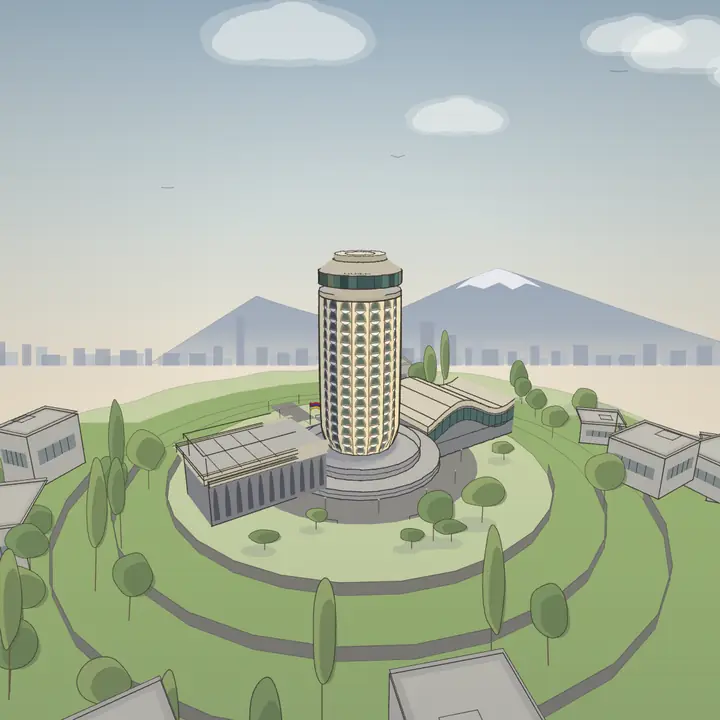
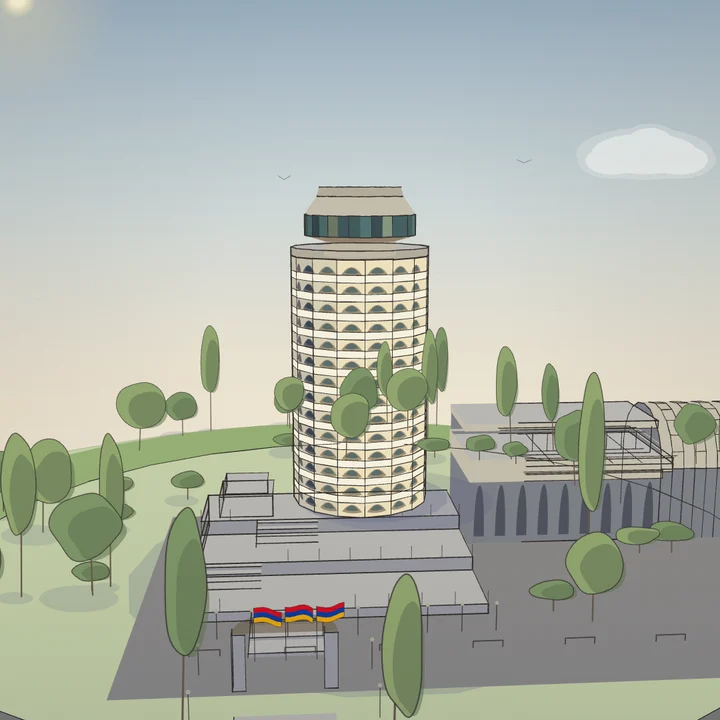
3D: ширина комплекса под 3–4 диаметра + пересъёмка кадров
Часть 3 задания на финальный вид 3D-модели — последний проход.

- Подиум подожат с 4.8 до ровно 4.0 диаметра ствола (PODX1: 3.90→2.30,
  простые объёмы на кровле сдвинуты в новые границы) — было заметно
  шире, чем просило задание.
- Пересняты кадры для сайта прямо из обновлённой сцены (тот же приём,
  что в прошлых раундах: композит #paper+#scene через offscreen canvas,
  toDataURL, PNG → PIL → нужные форматы/размеры):
  - assets/hero-sketch-{1080,720}.{jpg,webp} — общий план для слайдера
    «было/стало» на странице Кукурузника (ракурс близок к фото
    «Вид с холма»: башня, уступы, портал, крыло с арками, край свода).
  - kukuruznik/card.webp — кадр покрупнее на саму башню, для карточки
    в альбоме хаба и для превью 3D-кнопки.
  Проверено: файлы правильных размеров/форматов, на самих страницах
  подгружаются без ошибок (naturalWidth/Height и complete совпадают).

Проверено визуально почти со всех сторон поворотом камеры: пришлось
попутно найти и починить порядок файлов crыла/свода (см. предыдущий
коммит) — без этого свод строился в NaN-координатах и был невидим ни
с одного угла, хотя в модели он «существовал».

diff --git a/kukuruznik/js/model.js b/kukuruznik/js/model.js
@@ -65,7 +65,9 @@
        ниже друг друга. PODX0/PODX1 — общая для всех трёх ширина,
        поэтому уступ виден только со стороны фасада (−Z), а по бокам
        и сзади ярусы идут вровень друг над другом. */
-    var PODX0 = -1.35, PODX1 = 3.90;
+    /* Ширина всего комплекса (от торца свода до края подиума) —
+       3-4 диаметра ствола, как в задании. Было 4.8 при PODX1=3.90. */
+    var PODX0 = -1.35, PODX1 = 2.30;
     var TIERS3 = [
       { z0: -3.10, z1: 0.15, y0: 0.00, y1: 0.12 },
       { z0: -2.05, z1: 0.15, y0: 0.12, y1: 0.30 },
@@ -361,8 +363,8 @@
        там стоит пара служебных построек, а не голая плита. Обычные
        коробки с плоской крышей, без окон и лоджий. */
     var roofBoxes = [
-      { x0: 2.35, x1: 3.55, z0: -0.85, z1: -0.10, h: 0.30 },
-      { x0: 2.55, x1: 3.35, z0: 0.20,  z1: 0.60,  h: 0.20 }
+      { x0: 1.30, x1: 2.05, z0: -0.85, z1: -0.10, h: 0.30 },
+      { x0: 1.40, x1: 2.05, z0: 0.20,  z1: 0.60,  h: 0.20 }
     ];
     for (var rb2 = 0; rb2 < roofBoxes.length; rb2++) {
       var rB = roofBoxes[rb2];

diff --git a/src/model/01-helpers.js b/src/model/01-helpers.js
@@ -8,7 +8,9 @@
        ниже друг друга. PODX0/PODX1 — общая для всех трёх ширина,
        поэтому уступ виден только со стороны фасада (−Z), а по бокам
        и сзади ярусы идут вровень друг над другом. */
-    var PODX0 = -1.35, PODX1 = 3.90;
+    /* Ширина всего комплекса (от торца свода до края подиума) —
+       3-4 диаметра ствола, как в задании. Было 4.8 при PODX1=3.90. */
+    var PODX0 = -1.35, PODX1 = 2.30;
     var TIERS3 = [
       { z0: -3.10, z1: 0.15, y0: 0.00, y1: 0.12 },
       { z0: -2.05, z1: 0.15, y0: 0.12, y1: 0.30 },

diff --git a/src/model/03-stylobate.js b/src/model/03-stylobate.js
@@ -55,8 +55,8 @@
        там стоит пара служебных построек, а не голая плита. Обычные
        коробки с плоской крышей, без окон и лоджий. */
     var roofBoxes = [
-      { x0: 2.35, x1: 3.55, z0: -0.85, z1: -0.10, h: 0.30 },
-      { x0: 2.55, x1: 3.35, z0: 0.20,  z1: 0.60,  h: 0.20 }
+      { x0: 1.30, x1: 2.05, z0: -0.85, z1: -0.10, h: 0.30 },
+      { x0: 1.40, x1: 2.05, z0: 0.20,  z1: 0.60,  h: 0.20 }
     ];
     for (var rb2 = 0; rb2 < roofBoxes.length; rb2++) {
       var rB = roofBoxes[rb2];
